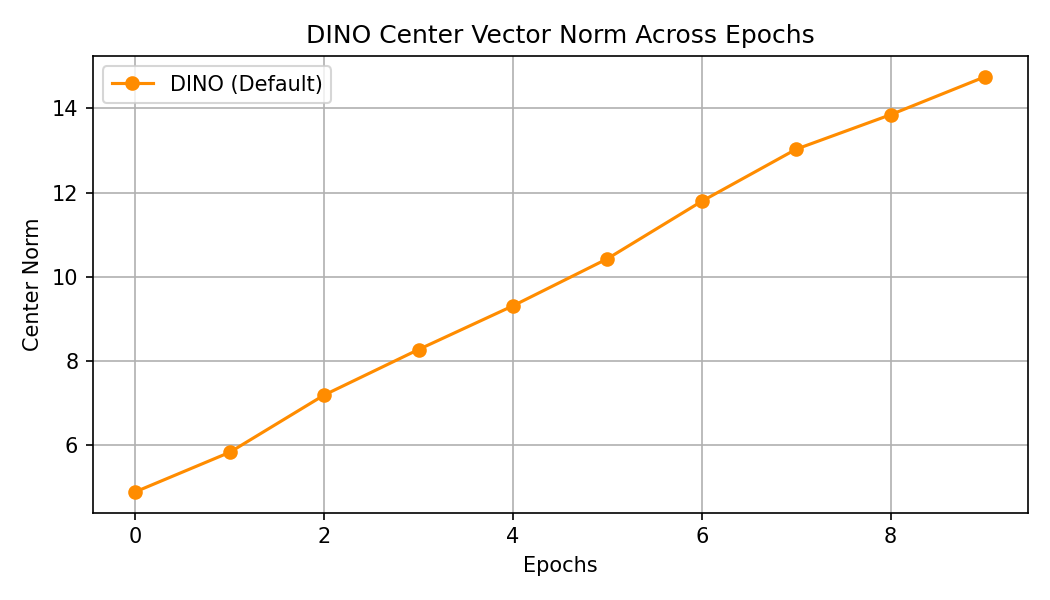
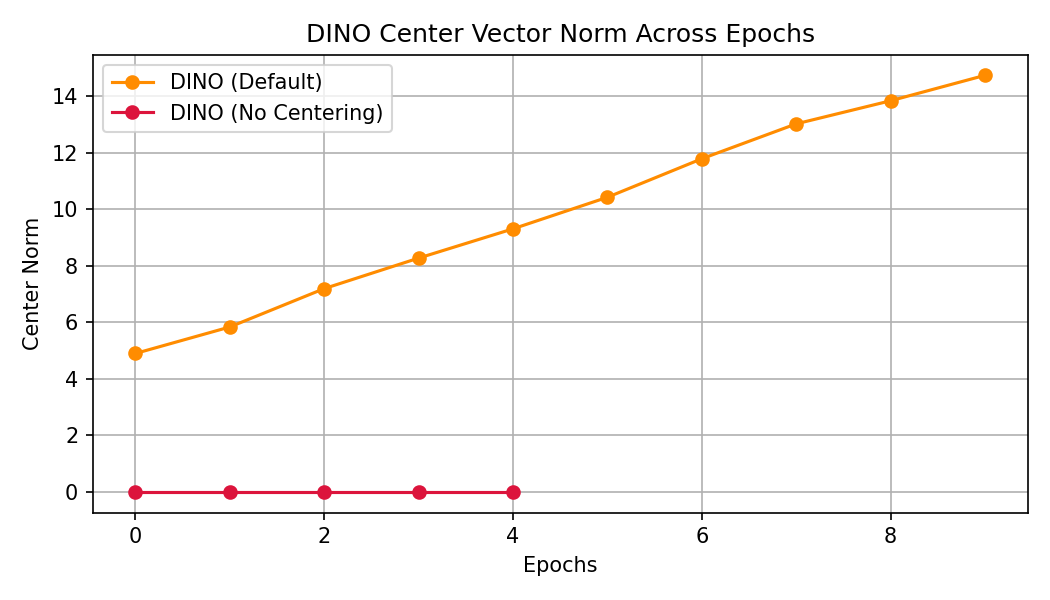
Final submission with completed ablation results, regenerated visualizations, and aligned paper annotations

Changed region(s): [[0.0, 0.03, 0.9752, 0.69], [0.061, 0.69, 0.9752, 0.78], [0.061, 0.78, 0.9752, 0.84]]

diff --git a/README.md b/README.md
@@ -14,8 +14,8 @@ Below is the summary of my pre-training runs and downstream linear evaluation ac
 | **SimCLR (ResNet-18)** | 65.54 | 77.0 | Contrastive learning baseline |
 | **DINO (ViT-Tiny)** | 50.31 | 159.4 | Self-distillation (default) |
 | **MAE (ViT)** | 42.55 | 22.4 | Masked Image Modeling (75% mask) |
-| **DINO (No Centering)** | ? | 1026.4 | Centering ablation (Exercise 1a) |
-| **DINO (No Local Crops)** | ? | ? | Multi-crop ablation (Exercise 1b) |
+| **DINO (No Centering)** | 28.68 | 1026.4 | Centering ablation (Exercise 1a) |
+| **DINO (No Local Crops)** | 46.31 | 509.8 | Multi-crop ablation (Exercise 1b) |
 | **MAE (Mask Ratio = 0.25)** | 36.08 | 82.8 | Masking ablation (Exercise 2) |
 | **MAE (Mask Ratio = 0.50)** | 36.50 | 73.2 | Masking ablation (Exercise 2) |
 
@@ -30,8 +30,8 @@ Below is the summary of my pre-training runs and downstream linear evaluation ac
 | Setting | Linear Eval Accuracy (%) |
 | :--- | :---: |
 | **Default (2 global + 4 local, with centering)** | 50.31 |
-| **No centering (`- self.center` removed)** | ? |
-| **No local crops (`n_local = 0`)** | ? |
+| **No centering (`- self.center` removed)** | 28.68 |
+| **No local crops (`n_local = 0`)** | 46.31 |
 
 ### Three-Way Comparison Table
 | Metric | SimCLR | DINO | MAE |